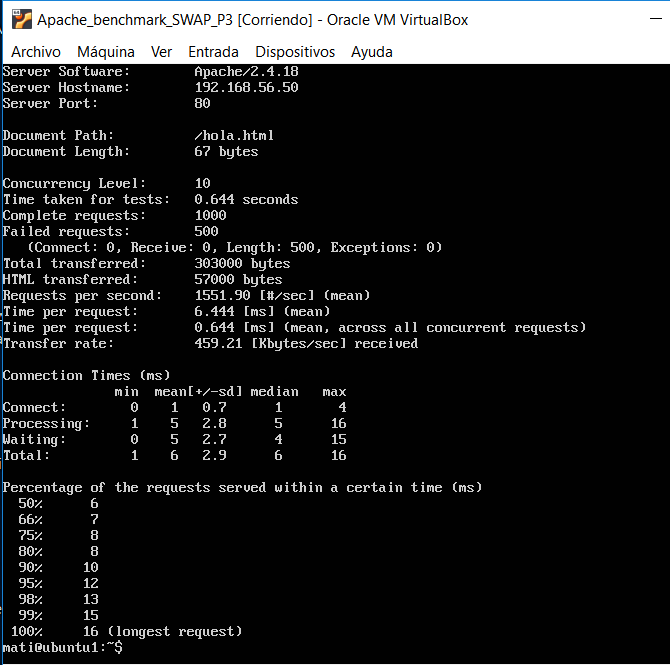
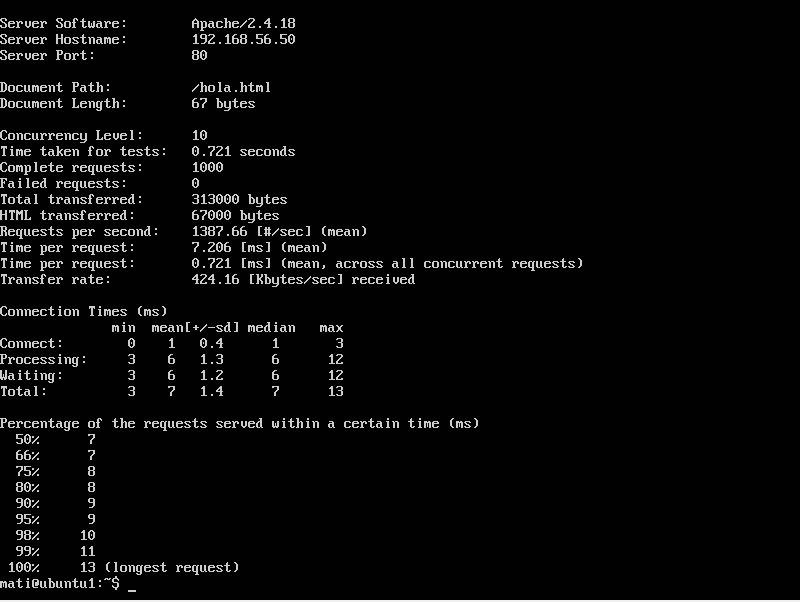
practica 3

Changed region(s): [[0.0, 0.0, 1.0, 1.0], [0.4776, 0.5681, 0.5075, 0.598]]

diff --git a/Practicas/Practica3.md b/Practicas/Practica3.md
@@ -1,0 +1,72 @@
+## Practica 3
+
+### **Balanceo de carga**
+Hay que llevar a cabo las siguientes tareas:
+
+***1. configurar una máquina e instalar el nginx como balanceador de carga***
+
+***2. configurar una máquina e instalar el haproxy como balanceador de carga***
+
+***3. someter a la granja web a una alta carga, generada con la herramienta Apache
+Benchmark, teniendo primero nginx y después haproxy.***
+
+Al comenzar hemos elegido la opción de clonar una de las máquinas y borrar el paquete lamp con las ordenes “sudo apt-get remove lamp-server^ && sudo apt-get purge lamp-server^ && sudo apt-get clean lamp-server^”, al avanzar en la práctica no nos deja actualizar ni instalar, hemos optado por desechar la máquina y instalamos una nueva maquina desde cero, le ponemos la ip:192.168.56.50
+
+![ifconfig](https://github.com/mati3/SWAP/blob/master/Imagenes/P3_1.PNG)
+
+La configuramos y la actualizamos con la orden “sudo apt-get update && sudo apt-get dist-upgrade && sudo apt-get autoremove”, la clonamos para instalar un balanceador en cada máquina nueva, de esta forma solo tendremos que apagar una y encender otra para probar ambos.
+
+### **1. configurar una máquina e instalar el nginx como balanceador de carga**
+
+Instalamos nginx con la orden “sudo apt-get instll nginx”, como indica en la practica la configuramos en “/etc/nginx/conf.d/default.conf” y lo lanzamos con “sudo systemctl start nginx”
+
+Configuración default.conf:
+
+![nginx](https://github.com/mati3/SWAP/blob/master/Imagenes/P3_2.PNG)
+
+Llegando a este punto el balanceador no nos funciona, y es que tenemos que entrar en la configuración, con “sudo nano nginx.conf” y comentar # include /etc/nginx/sites-enabled/*; línea que nos dice que es un servidor, así funciona solo como balanceador. Probamos nuestro servidor, hacemos las peticiones con la orden curl, observamos que hace un balanceo round-robin.
+
+![peticiones](https://github.com/mati3/SWAP/blob/master/Imagenes/P3_3.PNG)
+
+### **2. configurar una máquina e instalar el haproxy como balanceador de carga**
+
+Instalamos haproxy con la orden “sudo apt-get install haproxy”, la configuración esta en “/etc/haproxy/haproxy.sfg”, vamos a  configurar un balanceo con ponderación donde la máquina 1 tiene el doble de capacidad que la máquina 2. 
+
+Editamos el fichero de configuración haproxy.cfg, la configuración no es la que se indica en la practica, en la cual nos daba un error, la versión no soporta actualizaciones, asi que hemos buscado una que nos sirve :
+
+![haproxy](https://github.com/mati3/SWAP/blob/master/Imagenes/P3_5.PNG)
+
+Para salvar la configuración en el fichero, lanzamos el servicio “sudo /usr/sbin/haproxy -f /etc/haproxy/haproxy.cfg”, no nos ha salido ningún error, así que, probamos el servidor con la orden curl.
+
+![peticiones](https://github.com/mati3/SWAP/blob/master/Imagenes/P3_4.PNG)
+
+### **3. someter a la granja web a una alta carga, generada con la herramienta Apache Benchmark, teniendo primero nginx y después haproxy.**
+
+Para esta parte de la practica hemos rescatado una maquina virtual con una ip diferente al resto, de esta forma, el balanceador no tiene otras ocupaciones, y el tiempo que muestra es solo el reparto de la carga a los servidores. Lanzamos con la orden benchmark “ab -n 1000 -c 10 192.168.56.50/hola.html” , se solicita 1000 veces la página hola.html a la dirección 192.168.56.50 (ip de nuestro balanceador), las peticiones se hacen concurrentemente de 10 en 10.
+
+Resultados para nginx:
+
+![nginx](https://github.com/mati3/SWAP/blob/master/Imagenes/P3_11_nginx.PNG)
+
+Resultados para haproxy:
+
+![haproxy](https://github.com/mati3/SWAP/blob/master/Imagenes/P3_10_haproxy.PNG)
+
+Por los resultados obtenidos, determinamos que funciona mejor el balanceador haproxy.
+
+### **Adicionalmente, y como tarea opcional para conseguir una mayor nota en esta práctica, se propone el uso de algún otro software de balanceo diferente a los dos explicados en este guion (por ejemplo Pound).**
+	
+Hemos instalado y configurado el balanceador de carga Pound, para ello, hemos instalado un nuevo ubuntu_server y hemos ejecutado "apt-get -y install pound", después hemos modificado el archivo de configuración "/etc/pound/pound.cfg"
+
+![pound](https://github.com/mati3/SWAP/blob/master/Imagenes/P3_6.PNG)
+
+Ejecutamos  "sed -i -e "s/^startup=0/startup=1/" /etc/default/pound" para que todos los ficheros pound, que empiecen por startup=0 lo cambio por startup=1, esto es para que cuando encendamos el pc, el servicio se ponga en marcha. Después lo reiniciamos con "systemctl restart pound" para hacer efectivos los cambios.
+
+Resultados para pound:
+
+![pound](https://github.com/mati3/SWAP/blob/master/Imagenes/P3_12_pound.PNG)
+
+Seguimos manteniendo nuestra misma opinión, el mejor balanceador es haproxy, su time taken for tests es el menor, los anteriores son muy similares, mientras que el pound cuando le pones muchas peticiones tarda mucho en procesar los datos.
+	
+Practica realizada por José María Aguilera Varea y María Matilde Cabrera González.
+
